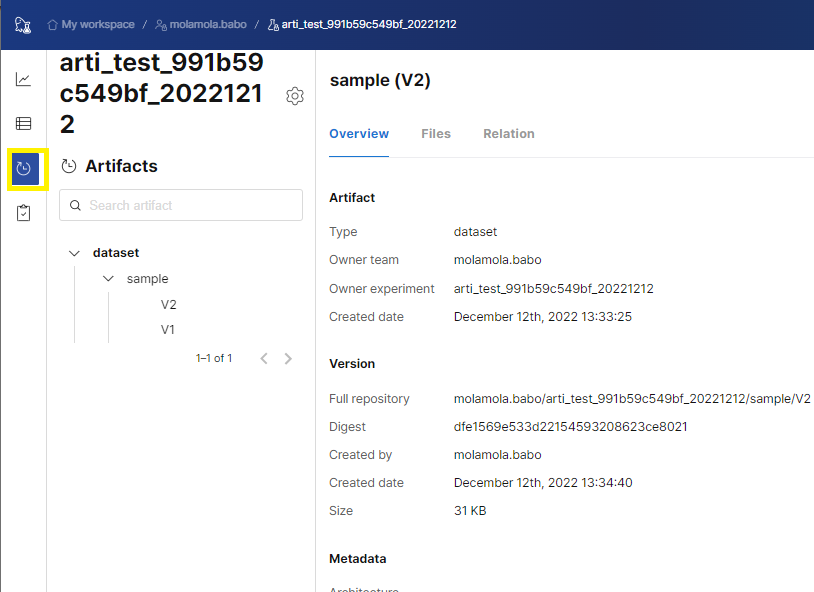
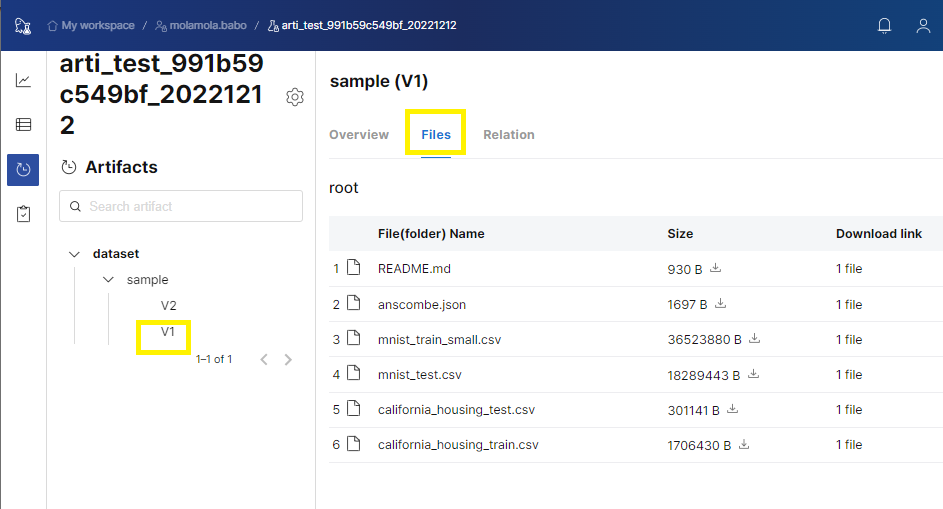
GITBOOK-35: change request with no subject merged in GitBook

diff --git a/guides/2.-data-versioning/artifacts-versioning.md b/guides/2.-data-versioning/artifacts-versioning.md
@@ -79,13 +79,13 @@ Run URL=http://quick-experience.bokchi.com:9111/experi/molamola.babo/arti_test_9
 
 좌측에 아티팩트 타입과 이름 기준으로 아티팩트 목록이 보이고, 각 아티팩트에는 태그(버전)들이 보입니다.
 
-<figure><img src="../../.gitbook/assets/image (1).png" alt=""><figcaption></figcaption></figure>
+<figure><img src="../../.gitbook/assets/image (1) (1).png" alt=""><figcaption></figcaption></figure>
 
 **4. 아티팩트 버전별 파일 목록 확인**
 
 각 태그(버전)을 누르고 우측에 Files 탭을 누르면 해당 태그로 업로드된 파일 목록을 조회할 수 있습니다.
 
-<figure><img src="../../.gitbook/assets/image.png" alt=""><figcaption></figcaption></figure>
+<figure><img src="../../.gitbook/assets/image (1).png" alt=""><figcaption></figcaption></figure>
 {% endtab %}
 {% endtabs %}
 

diff --git a/quickstart.md b/quickstart.md
@@ -114,6 +114,36 @@ deepdriver.login()
 회원가입시 사용한 id와 password로 로그인
 {% endhint %}
 
+### 1. 일반 email로 로그인 하는 경우
+
+#### 하기 코드에서 e 입력
+
+```
+deepdriver.login_with()
+```
+
+#### 하기 코드에서 id와 password 입력
+
+```
+deepdriver.login()
+```
+
+![](.gitbook/assets/image.png)
+
+### 2. google 계정으로 로그인 하는 경우
+
+#### 하기 코드에서 g 입력
+
+```
+deepdriver.login_with()
+```
+
+#### 하기 코드 수행 후 link 클릭하여 google 로그인 후 생성된 코드 복사하여 입력
+
+```
+deepdriver.login()
+```
+
 
 {% endtab %}
 
@@ -127,6 +157,8 @@ deepdriver.login( key="your_api_key")
 ```
 {% endtab %}
 {% endtabs %}
+
+
 
 ## 3. 실험환경 및 실행 만들기
 
